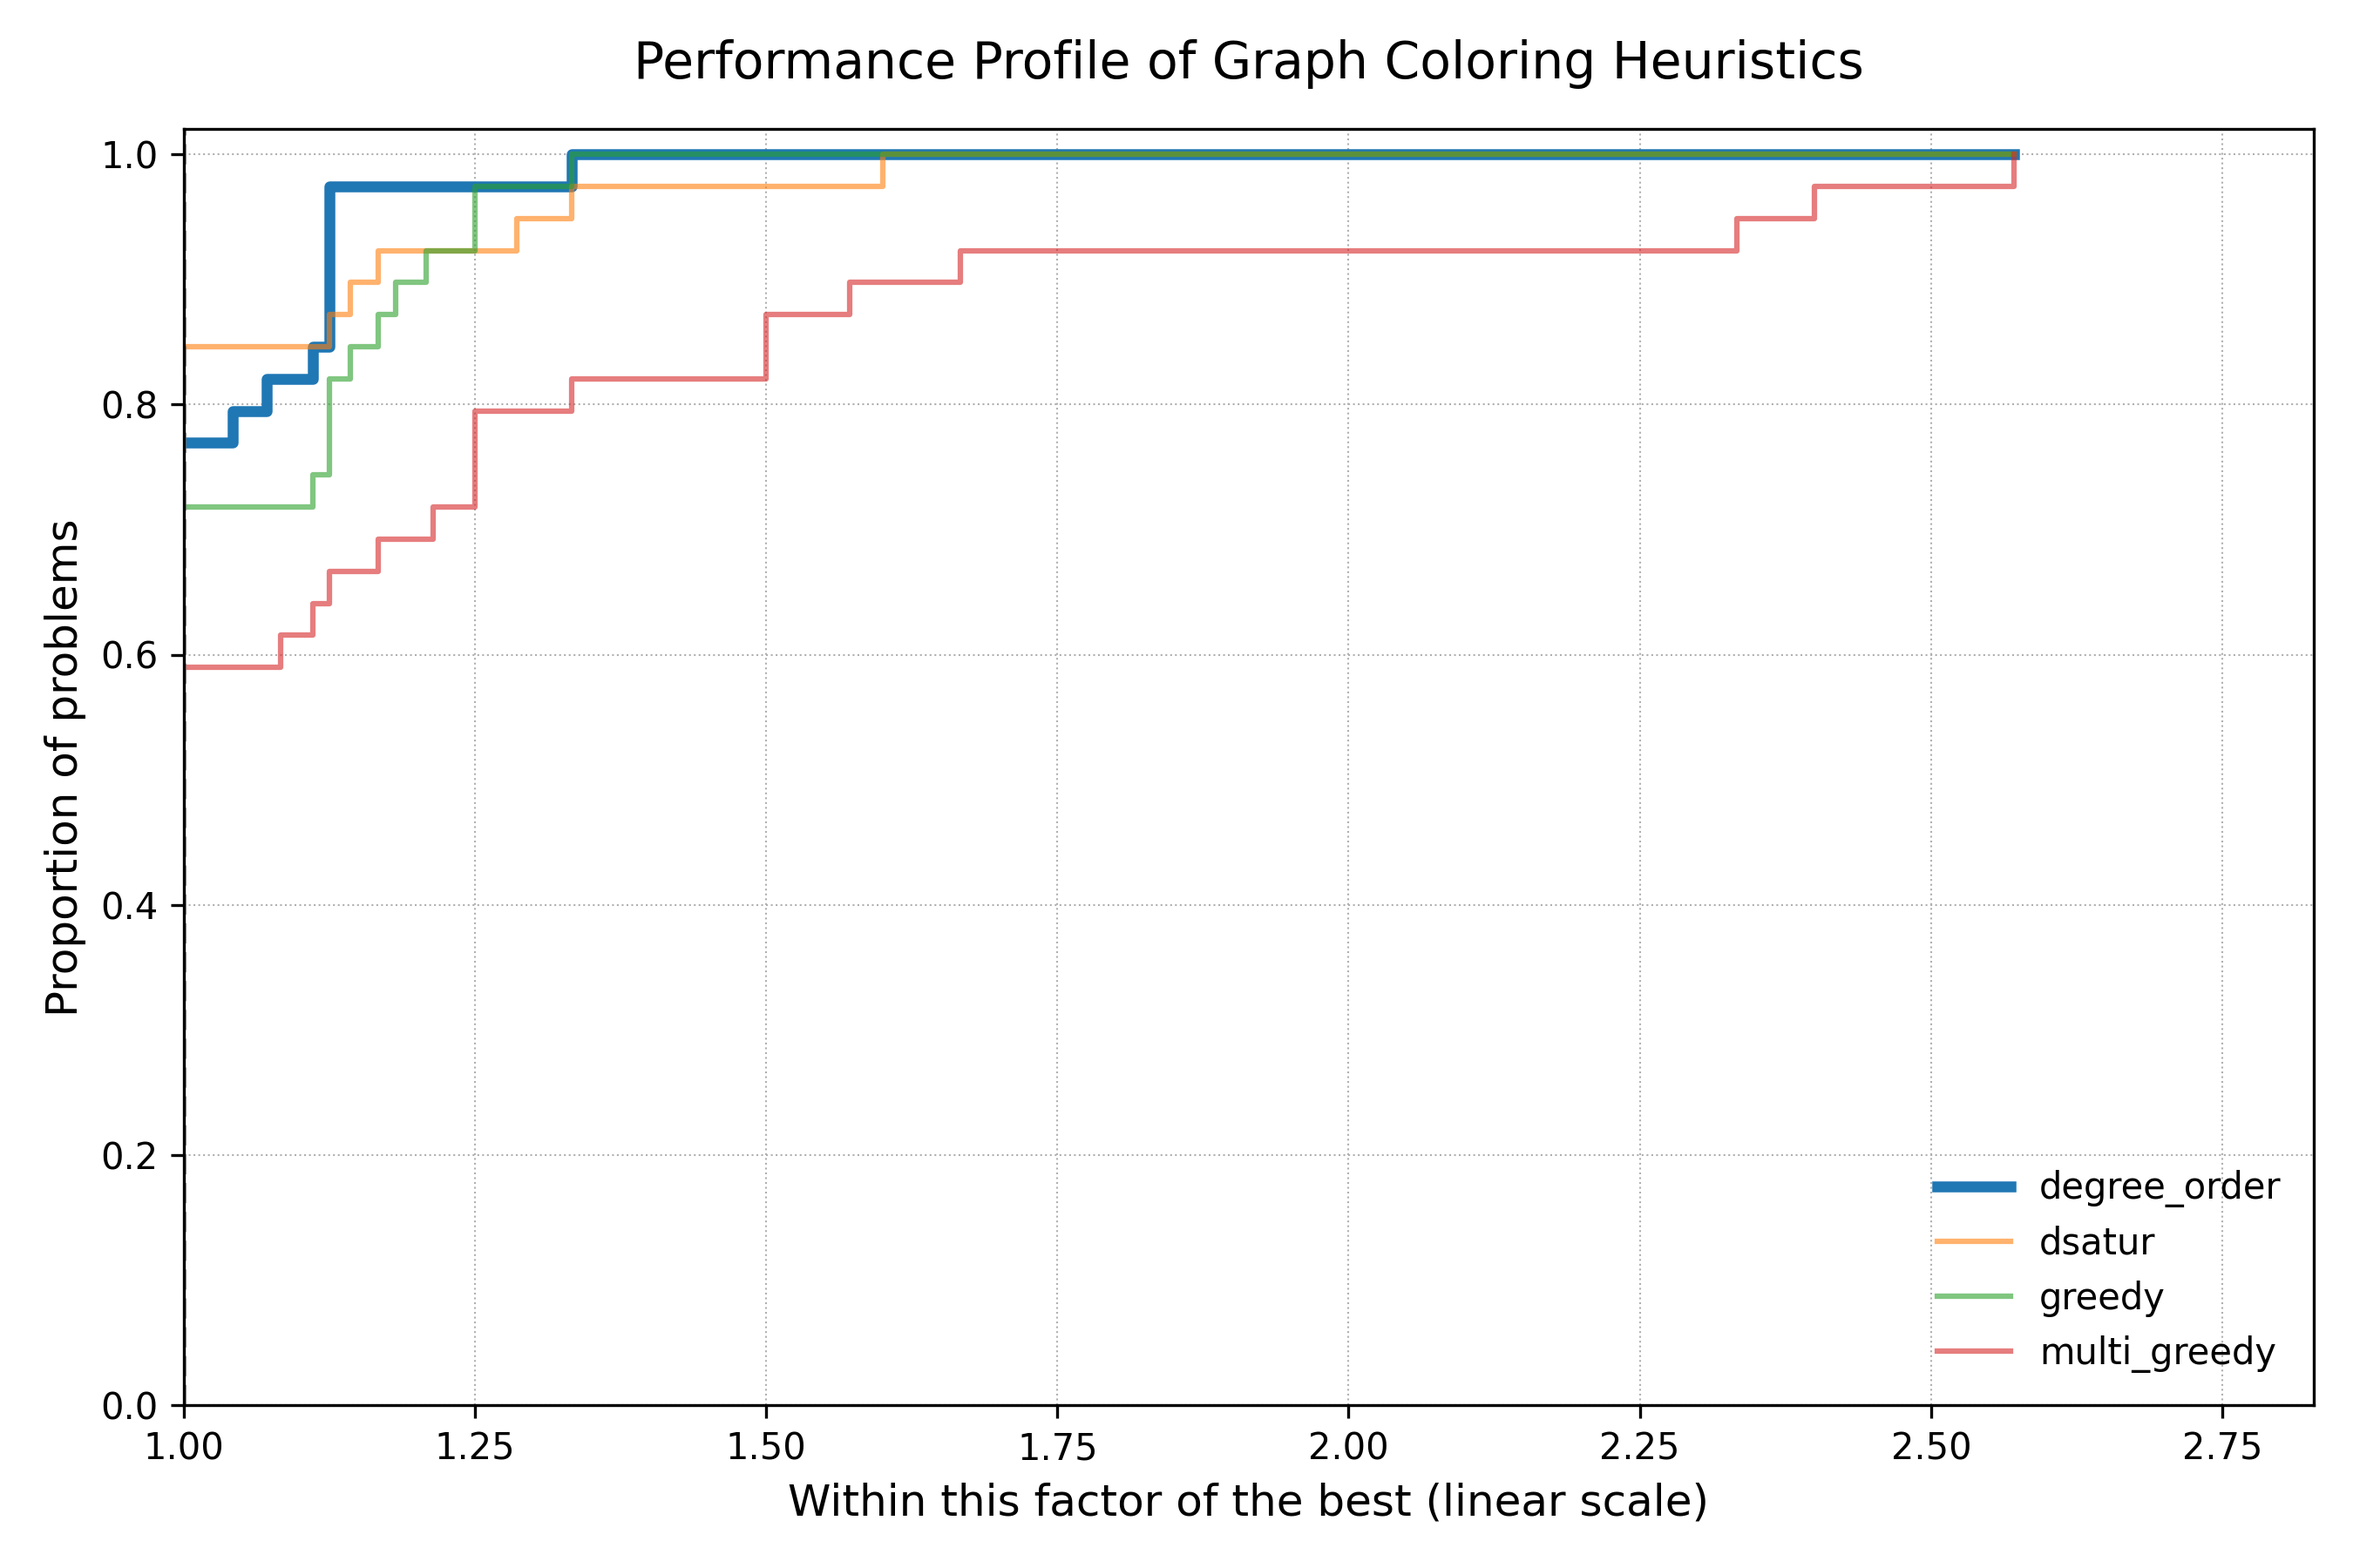
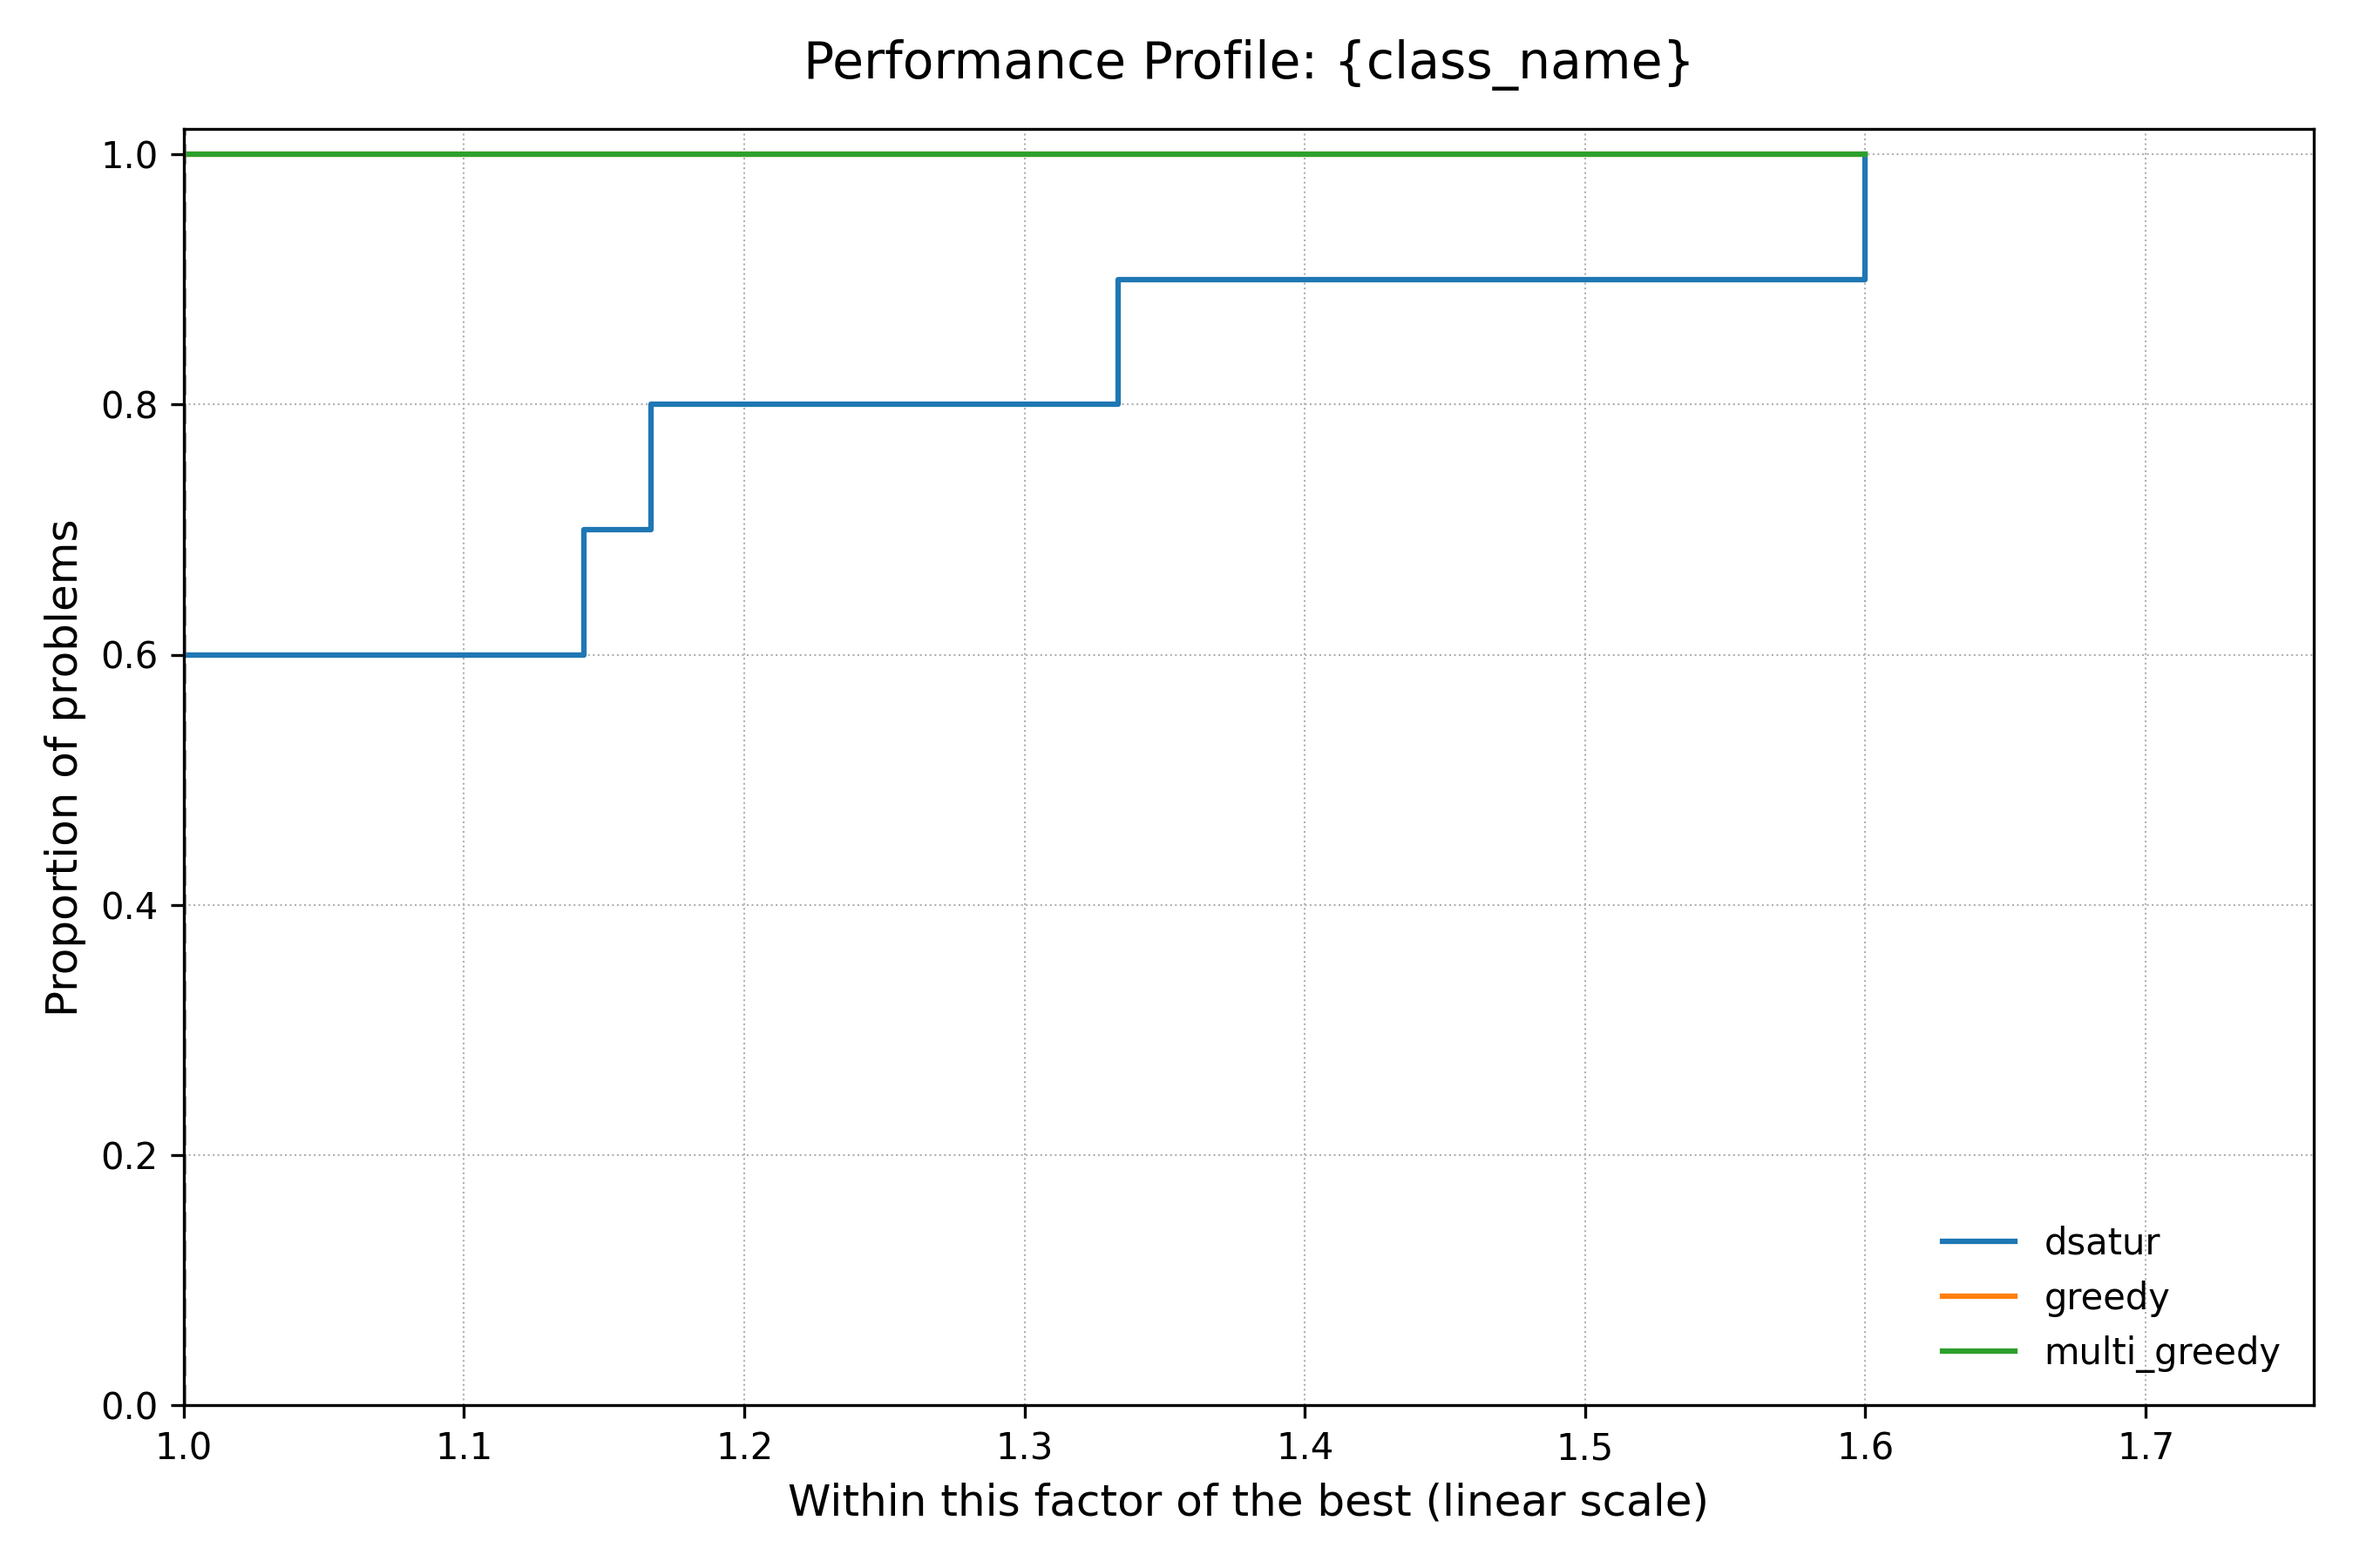
try to fix plots

diff --git a/sheets/05_graph_coloring/heuristics/benchmarkingheuristics.py b/sheets/05_graph_coloring/heuristics/benchmarkingheuristics.py
@@ -6,38 +6,82 @@ import pandas as pd
 import numpy as np
 import matplotlib.pyplot as plt
 
-data_rows = []
-heuristics = {
-    "greedy": lambda G: Heuristics.greedy_coloring(G, Heuristics.input_order(G)),
-    "degree_order": lambda G: Heuristics.greedy_coloring(G, Heuristics.highest_degree_order(G)),
-    "multi_greedy": lambda G: Heuristics.multi_start_greedy(G, runs = 50, seed = 42),
-    "dsatur": Heuristics.dsatur_coloring
-}
 
-for i, (name, G) in enumerate(Instances.generate_test_instances()):
-    instance_id = name
-    for name, f in heuristics.items():
-        coloring = f(G)
-        data_rows.append({
-            "instance": instance_id,
-            "strategy": name,
-            "metric": Heuristics.num_colors(coloring)
-        })
+class Benchmarking_Heuristics:
 
-df = pd.DataFrame(data_rows)
+    heuristics = {
+        "greedy": lambda G: Heuristics.greedy_coloring(G, Heuristics.input_order(G)),
+        #"degree_order": lambda G: Heuristics.greedy_coloring(G, Heuristics.highest_degree_order(G)),
+        "multi_greedy": lambda G: Heuristics.multi_start_greedy(G, runs = 50, seed = 42),
+        "dsatur": Heuristics.dsatur_coloring
+    }
 
-print(df.head(20))
+    all_instances = Instances.generate_test_instances()
 
-Plots.plot_performance_profile(
-    data=df,
-    instance_column="instance",
-    strategy_column="strategy",
-    metric_column="metric",
-    direction="min",          # smaller number of colors is better
-    comparison="relative",    # ratio to best-known solution
-    highlight_best=True,      # optional: bold the dominant heuristic
-    title="Performance Profile of Graph Coloring Heuristics"
-)
+    @classmethod
+    def plot_per_graph_class(cls):
+        for class_name, names in Instances.graph_classes().items():
+            data_rows = []
 
-plt.savefig("benchmarking_heuristics_profile.png", dpi = 300)
-plt.close()
+            for instance_name, G in cls.all_instances:
+                if instance_name not in names:
+                    continue  # skip instances not in this class
+                for h_name, f in cls.heuristics.items():
+                    coloring = f(G)
+                    data_rows.append({
+                        "instance": instance_name,
+                        "strategy": h_name,
+                        "metric": Heuristics.num_colors(coloring)
+                    })
+
+            df_class = pd.DataFrame(data_rows)
+
+            print(df_class.head(20))
+
+            Plots.plot_performance_profile(
+                data = df_class,
+                instance_column = "instance",
+                strategy_column = "strategy",
+                metric_column = "metric",
+                direction = "min",          # smaller number of colors is better upper bound
+                comparison = "relative",    # ratio to best-known solution
+                highlight_best = False,      # bold dominant heuristic
+                title = (f"Performance Profile: {class_name}")
+            )
+
+            plt.savefig(f"benchmarking_heuristics_{class_name}.png", dpi=300)
+
+    @classmethod
+    def plot_all_instances(cls):
+        data_rows = []
+        for i, (name, G) in enumerate(Instances.generate_test_instances()):
+            instance_id = name
+            for name, f in cls.heuristics.items():
+                coloring = f(G)
+                data_rows.append({
+                    "instance": instance_id,
+                    "strategy": name,
+                    "metric": Heuristics.num_colors(coloring)
+                })
+        
+        df = pd.DataFrame(data_rows)
+
+        print(df.head(40))
+
+        Plots.plot_performance_profile(
+                data = df,
+                instance_column = "instance",
+                strategy_column = "strategy",
+                metric_column = "metric",
+                direction = "min",          # smaller number of colors is better upper bound
+                comparison = "relative",    # ratio to best-known solution
+                highlight_best = False,      # bold dominant heuristic
+                title = (f"Performance Profile: all instances")
+            )
+
+        plt.savefig(f"benchmarking_heuristics_all_instances.png", dpi=300)
+
+# generate the plots
+if __name__ == "__main__":
+    Benchmarking_Heuristics.plot_all_instances()
+    Benchmarking_Heuristics.plot_per_graph_class()

diff --git a/sheets/05_graph_coloring/instances/instances.py b/sheets/05_graph_coloring/instances/instances.py
@@ -12,12 +12,12 @@ class Instances:
         instances.append(("K23", nx.complete_graph(23)))
 
         # bipartite graphs --> only two colors necessary
-        instances.append(("bipartit3-5", nx.complete_bipartite_graph(3, 5)))
-        instances.append(("bipartit1-7", nx.complete_bipartite_graph(1, 7)))
-        instances.append(("bipartit9-4", nx.complete_bipartite_graph(9, 4)))
+        instances.append(("bipartite3-5", nx.complete_bipartite_graph(3, 5)))
+        instances.append(("bipartite1-7", nx.complete_bipartite_graph(1, 7)))
+        instances.append(("bipartite9-4", nx.complete_bipartite_graph(9, 4)))
 
         # cycle graphs (2 colors for even, 3 colors for odd cycles)
-        instances.append(("cylceEven", nx.cycle_graph(24)))
+        instances.append(("cycleEven", nx.cycle_graph(24)))
         instances.append(("cycleOdd", nx.cycle_graph(25)))
 
         # paths --> two colors
@@ -38,8 +38,6 @@ class Instances:
 
         # barabasi_albert_graph (random) --> sequentielly adding of nodes with degree m
         # --> nodes with high degree --> DSATUR much better
-        nx.barabasi_albert_graph(50, 3, seed = 42)
-        nx.barabasi_albert_graph(50, 4, seed = 42)
         instances.append(("barabasi50-2-42", nx.barabasi_albert_graph(50, 2, seed = 42)))
         instances.append(("barabasi50-3-42", nx.barabasi_albert_graph(50, 3, seed = 42)))
         instances.append(("barabasi50-4-42", nx.barabasi_albert_graph(50, 4, seed = 42)))
@@ -47,8 +45,8 @@ class Instances:
         instances.append(("barabasi100-10-13", nx.barabasi_albert_graph(100, 10, seed = 13)))
         instances.append(("barabasi100-10-20", nx.barabasi_albert_graph(100, 10, seed = 20)))
         instances.append(("barabasi100-10-42", nx.barabasi_albert_graph(100, 10, seed = 42)))
-        instances.append(("barabasi100-10-55", nx.barabasi_albert_graph(100, 10, seed = 55)))
-        instances.append(("barabasi100-25-55", nx.barabasi_albert_graph(100, 25, seed = 55)))
+        #instances.append(("barabasi100-10-55", nx.barabasi_albert_graph(100, 10, seed = 55)))
+        #instances.append(("barabasi100-25-55", nx.barabasi_albert_graph(100, 25, seed = 55)))
         #instances.append(("barabasi150-33-66", nx.barabasi_albert_graph(150, 33, seed = 66)))
 
         # kneser graph (classic, n > k > 0) --> highly symmetric, challenging for greedy
@@ -63,6 +61,20 @@ class Instances:
         instances.append(("kneser15-2", nx.kneser_graph(15, 2)))
         instances.append(("kneser15-4", nx.kneser_graph(15, 4)))
         # boss level
-        instances.append(("kneser15-5", nx.kneser_graph(15, 5)))
+        #instances.append(("kneser15-5", nx.kneser_graph(15, 5)))
 
         return instances
+
+    @staticmethod
+    def graph_classes():
+        instances = Instances.generate_test_instances()
+        classes = {
+            "complete": [name for name, _ in instances if "K" in name],
+            "bipartite": [name for name, _ in instances if "bipartite" in name],
+            "cycle": [name for name, _ in instances if "cycle" in name],
+            "path": [name for name, _ in instances if "path" in name],
+            "erdos_renyi": [name for name, _ in instances if "erdos" in name],
+            "barabasi": [name for name, _ in instances if "barabasi" in name],
+            "kneser": [name for name, _ in instances if "kneser" in name or "petersenGraph" in name]
+        }
+        return classes

diff --git a/sheets/05_graph_coloring/heuristics/heuristics.py b/sheets/05_graph_coloring/heuristics/heuristics.py
@@ -36,6 +36,7 @@ class Heuristics:
     def input_order(graph: nx.Graph) -> List[int]:
         return list(graph.nodes())
 
+    """
     def random_order(graph: nx.Graph, seed: int | None = None) -> List[int]:
         nodes = list(graph.nodes())
         randseq = random.Random(seed) # reproducible randomness, seed fix random sequence
@@ -48,10 +49,14 @@ class Heuristics:
             key = lambda v: graph.degree(v),
             reverse = True
         )
+    """
 
     def multi_start_greedy(graph: nx.Graph, runs: int = 50, seed: int | None = None) -> Coloring:
-        best_coloring: Heuristics.Coloring | None = None
-        min_colors = float("inf")
+
+        # native greedy is always upper bound --> try to get better with random node order
+        input_order = Heuristics.input_order(graph)
+        best_coloring =  Heuristics.greedy_coloring(graph, input_order)
+        min_colors = Heuristics.num_colors(best_coloring)
 
         randseq = random.Random(seed)
 

diff --git a/sheets/05_graph_coloring/plot_generation.py b/sheets/05_graph_coloring/plot_generation.py
@@ -4,6 +4,8 @@ import numpy as np
 import matplotlib.pyplot as plt
 from matplotlib.axes import Axes
 
+# copy, paste of Dominik's Code, thank you!
+
 class Plots:
     def plot_performance_profile(
         data: pd.DataFrame,
